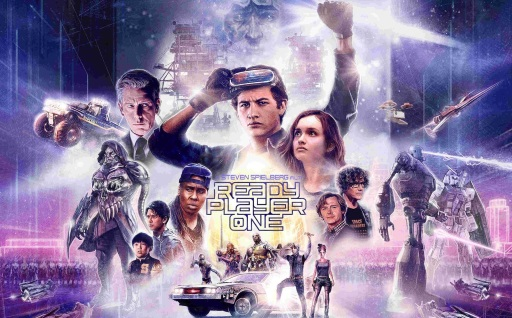
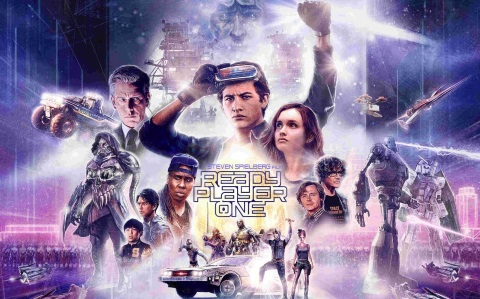
Make RP1 pic larger and space accordingly

diff --git a/2018/presentation/src/app/theme/theme.component.html b/2018/presentation/src/app/theme/theme.component.html
@@ -1,6 +1,7 @@
 <div class="container container-flex">
-  <img class="margin-right-narrow img-xlarge" src="./assets/ready_player_one.jpg" alt="Ready Player One Movie" />
-  <ul class="text-align-left">
+  <div class="flex-1"></div>
+  <img class="flex-2 margin-right-narrow img-2xlarge" src="./assets/ready_player_one.jpg" alt="Ready Player One Movie" />
+  <ul class="flex-4 text-align-left">
     <li>
       <img class="margin-right-narrow img-small" src="./assets/chevron-right.png" alt="Chevron" />
       The conference theme was the 80’s inspired by the movie Ready Player One (RP1)
@@ -14,6 +15,7 @@
       Between the talks we were entertained by...
     </li>
   </ul>
+  <div class="flex-1"></div>
 </div>
 <div class="container container-flex">
   <div>

diff --git a/2018/presentation/src/styles.css b/2018/presentation/src/styles.css
@@ -15,6 +15,10 @@
   flex: 2;
 }
 
+.flex-4 {
+  flex: 4;
+}
+
 .text-align-left {
   text-align: left;
 }
